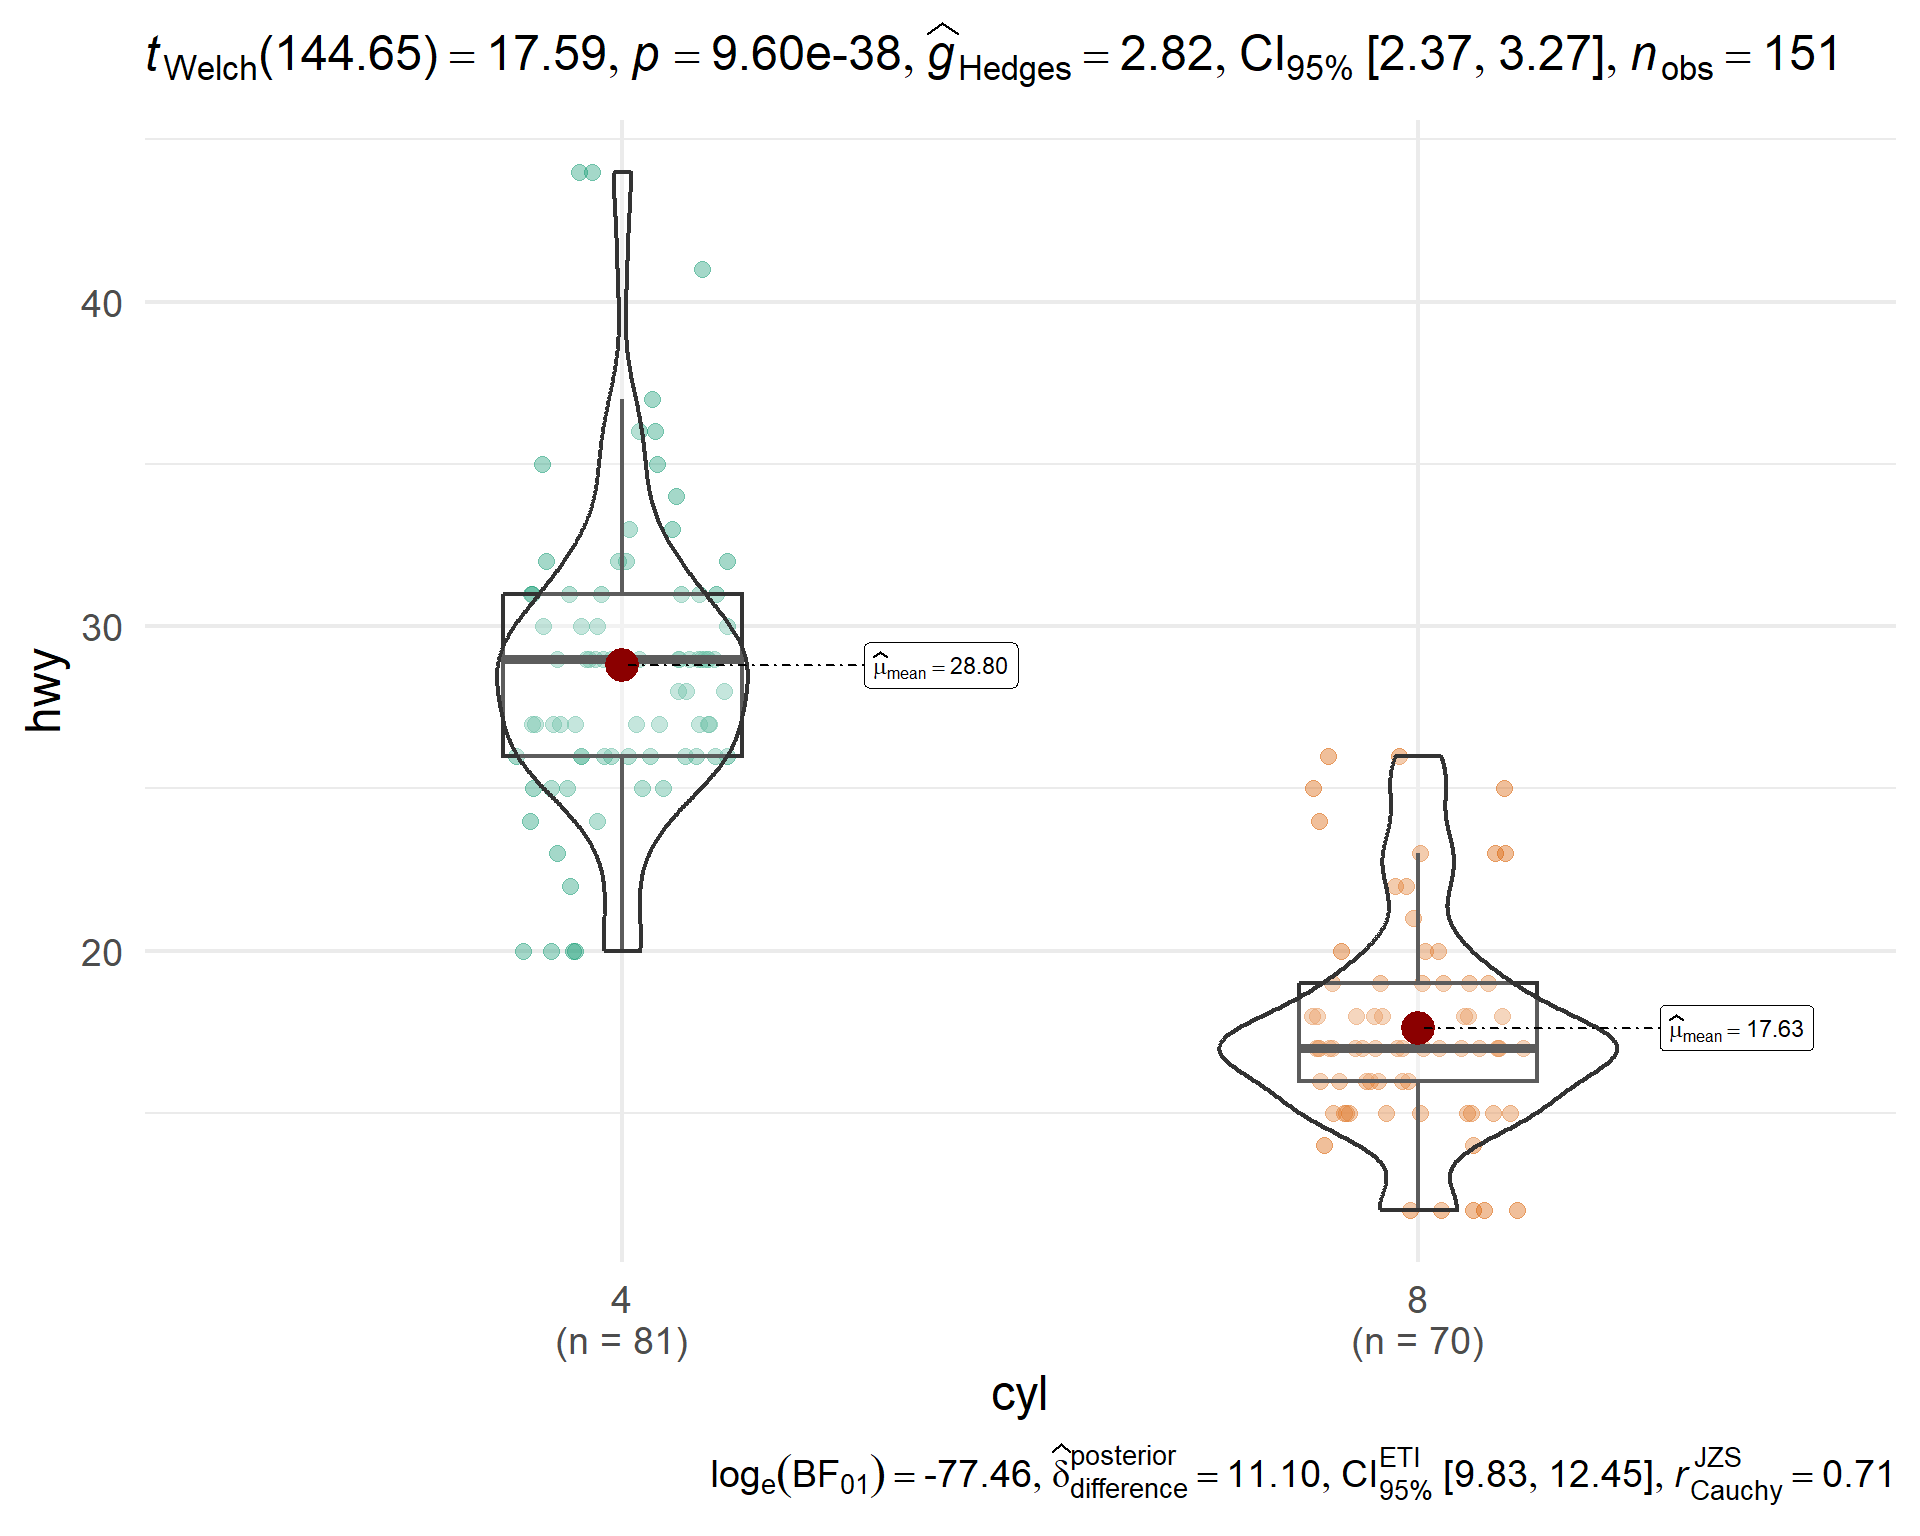
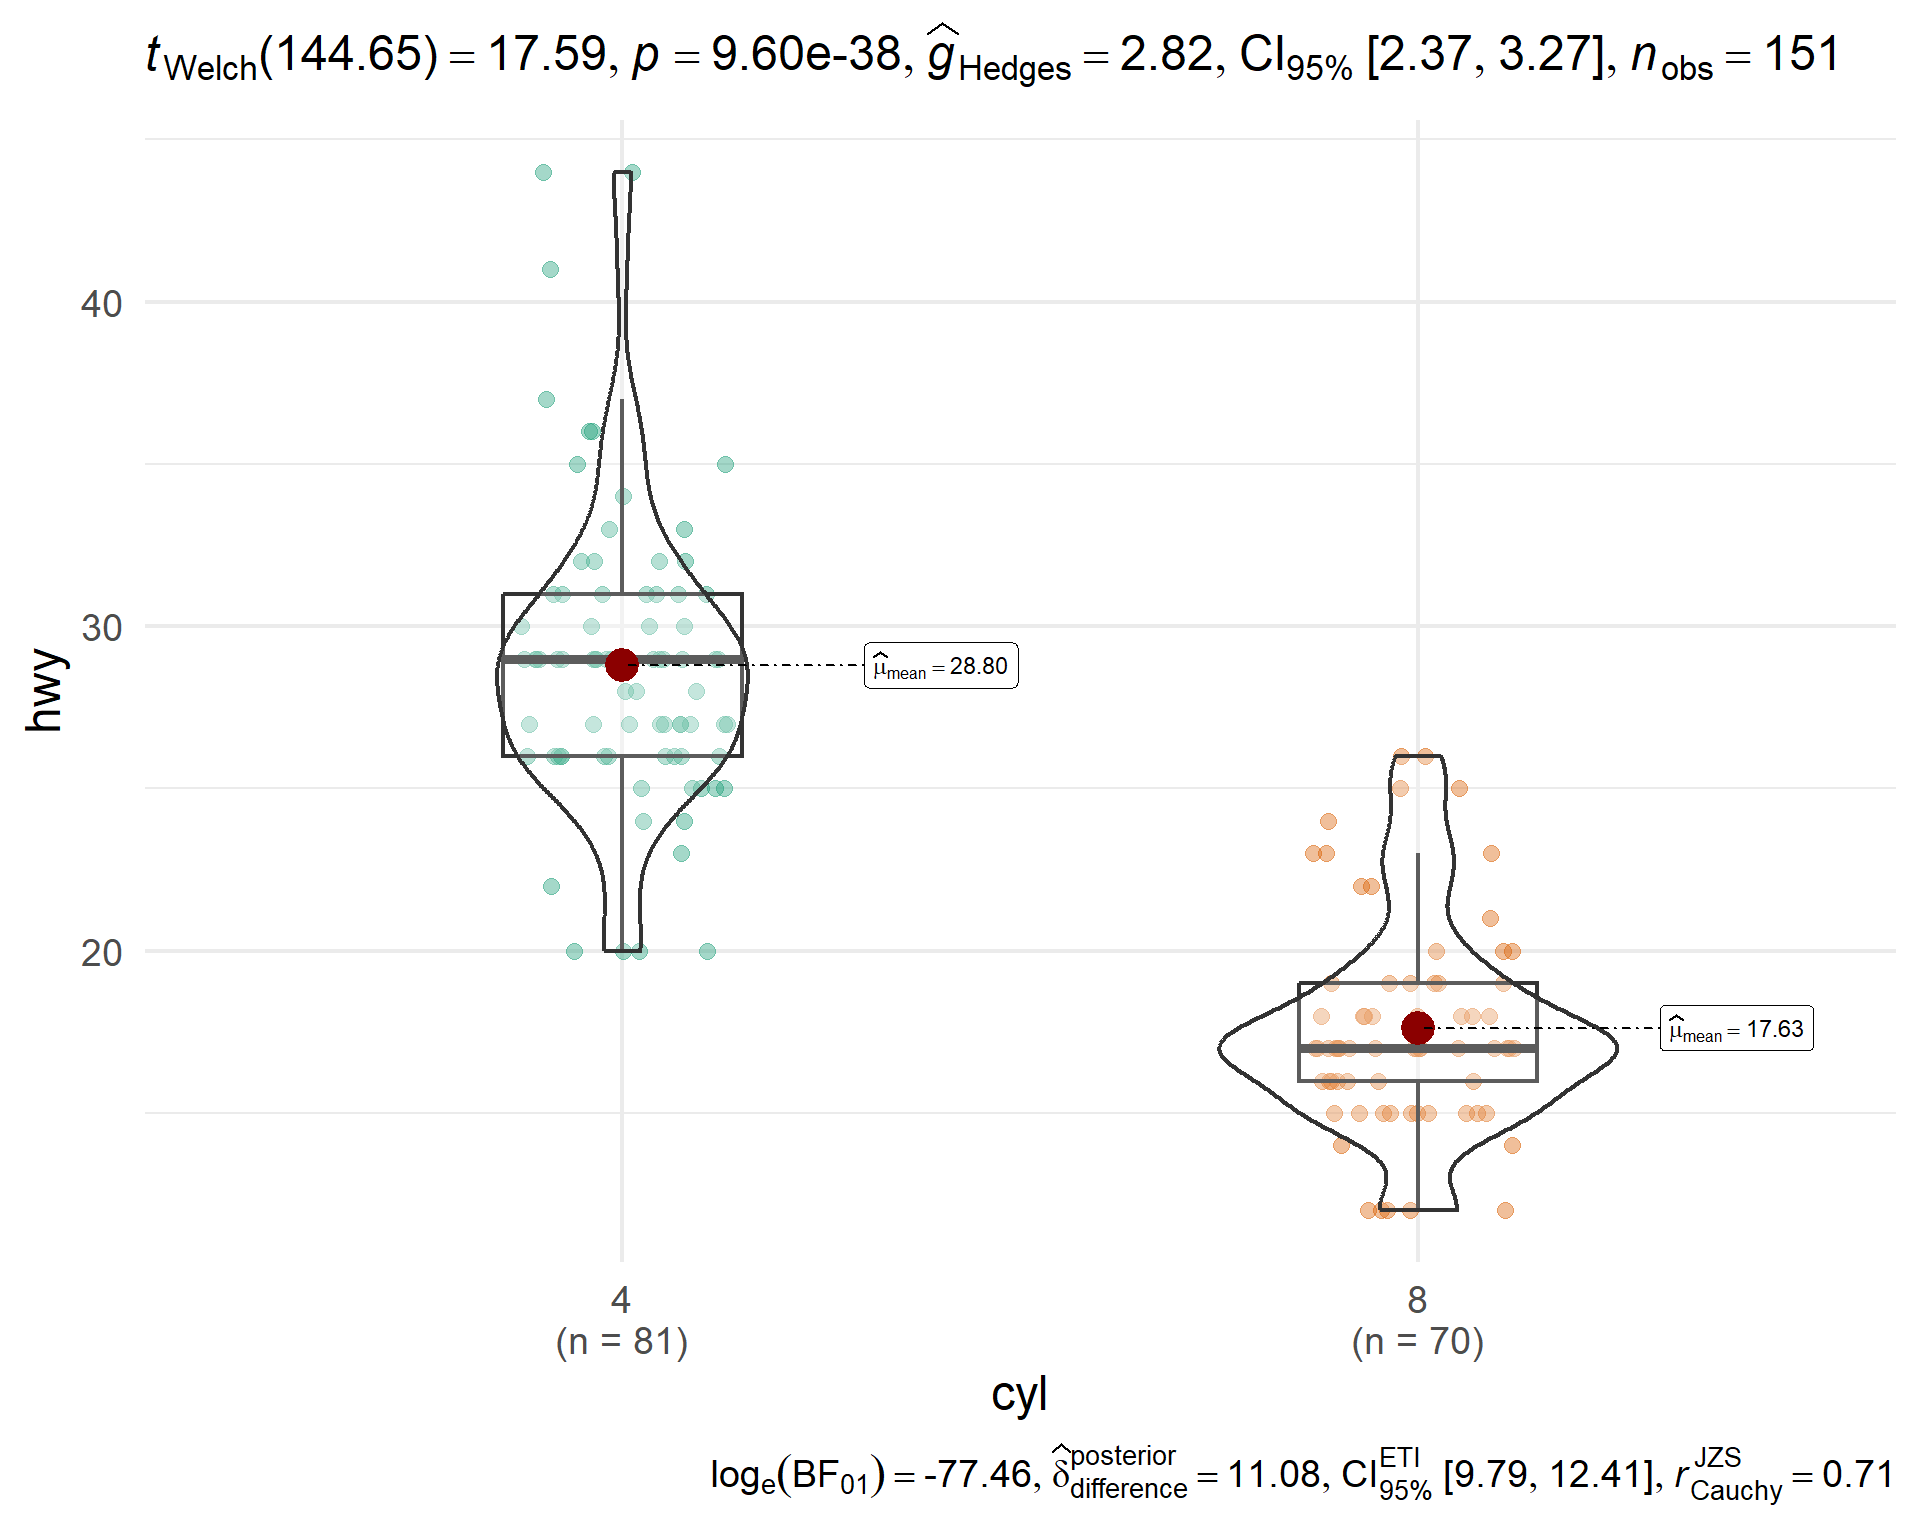
home page change and footer

diff --git a/m8-tests-on-means/index.html b/m8-tests-on-means/index.html
@@ -194,7 +194,7 @@
   <div class="reveal">
     <div class="slides">
 
-<section id="title-slide" data-background-image="plot/module-6.png" data-background-size="cover" class="quarto-title-block center">
+<section id="title-slide" data-background-image="plot/test on means.png" data-background-size="cover" class="quarto-title-block center">
   <h1 class="title">.</h1>
 
 <div class="quarto-title-authors">
@@ -456,7 +456,7 @@
 <section id="independent-sample-t-test" class="slide level2">
 <h2>Independent sample t-test</h2>
 
-<img data-src="plot/idependent-t-tst.png" class="quarto-figure quarto-figure-center r-stretch" width="960"></section>
+<img data-src="plot/idependent-t-tst.png" class="quarto-figure quarto-figure-center r-stretch"></section>
 <section id="independent-sample-t-test-1" class="slide level2">
 <h2>Independent sample t-test</h2>
 <div style="font-size: 2.0em;">
@@ -1164,7 +1164,7 @@ statistical significance.</p></li>
     </div>
   <div class="quarto-auto-generated-content" style="display: none;">
 <div class="footer footer-default">
-<p>Econ 148: Analytical and statistical packages for economics 1</p>
+<p>Econ 115a: Econometrics</p>
 </div>
 </div></div>
 
